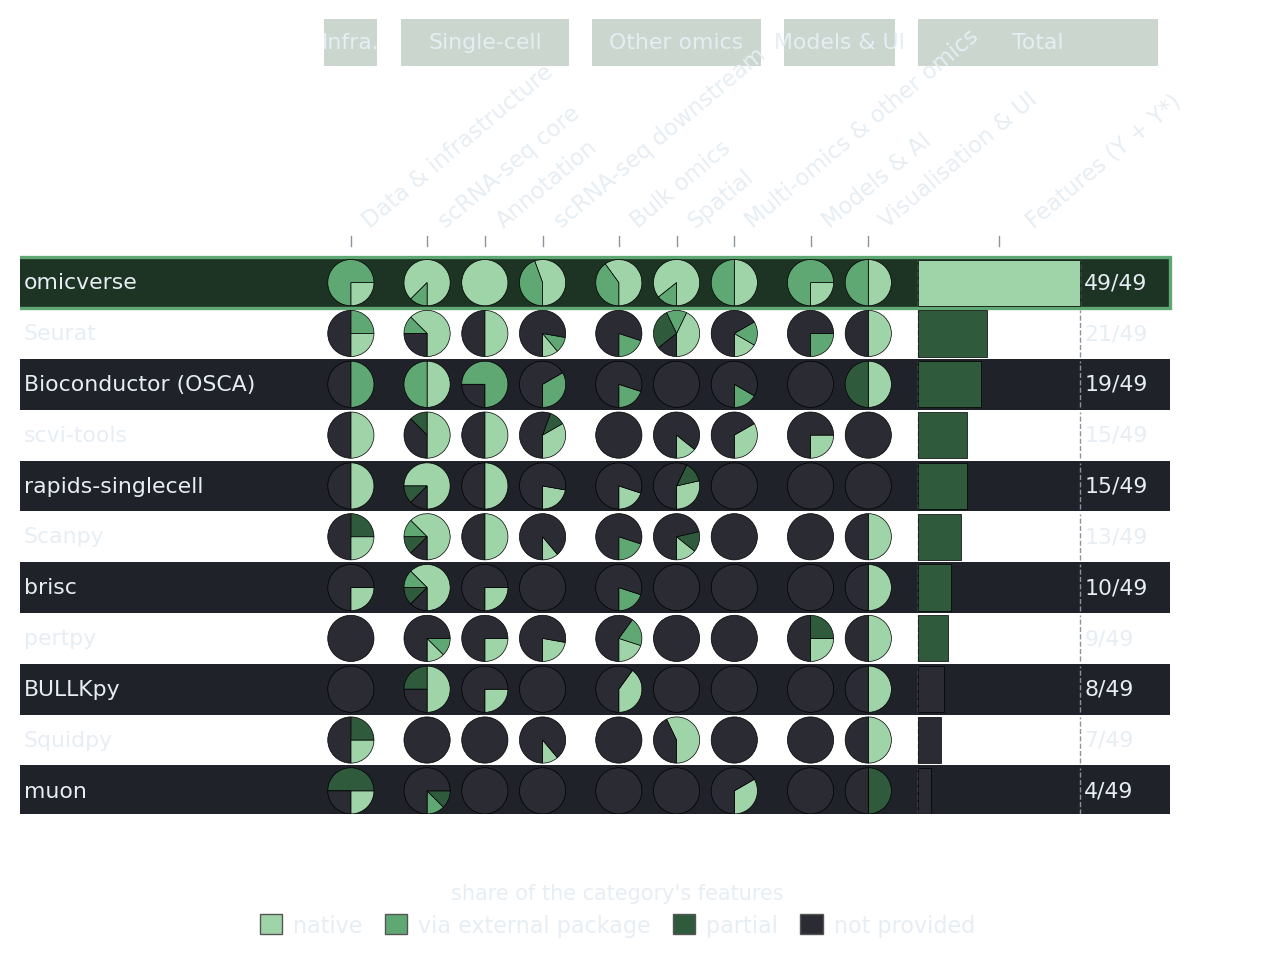
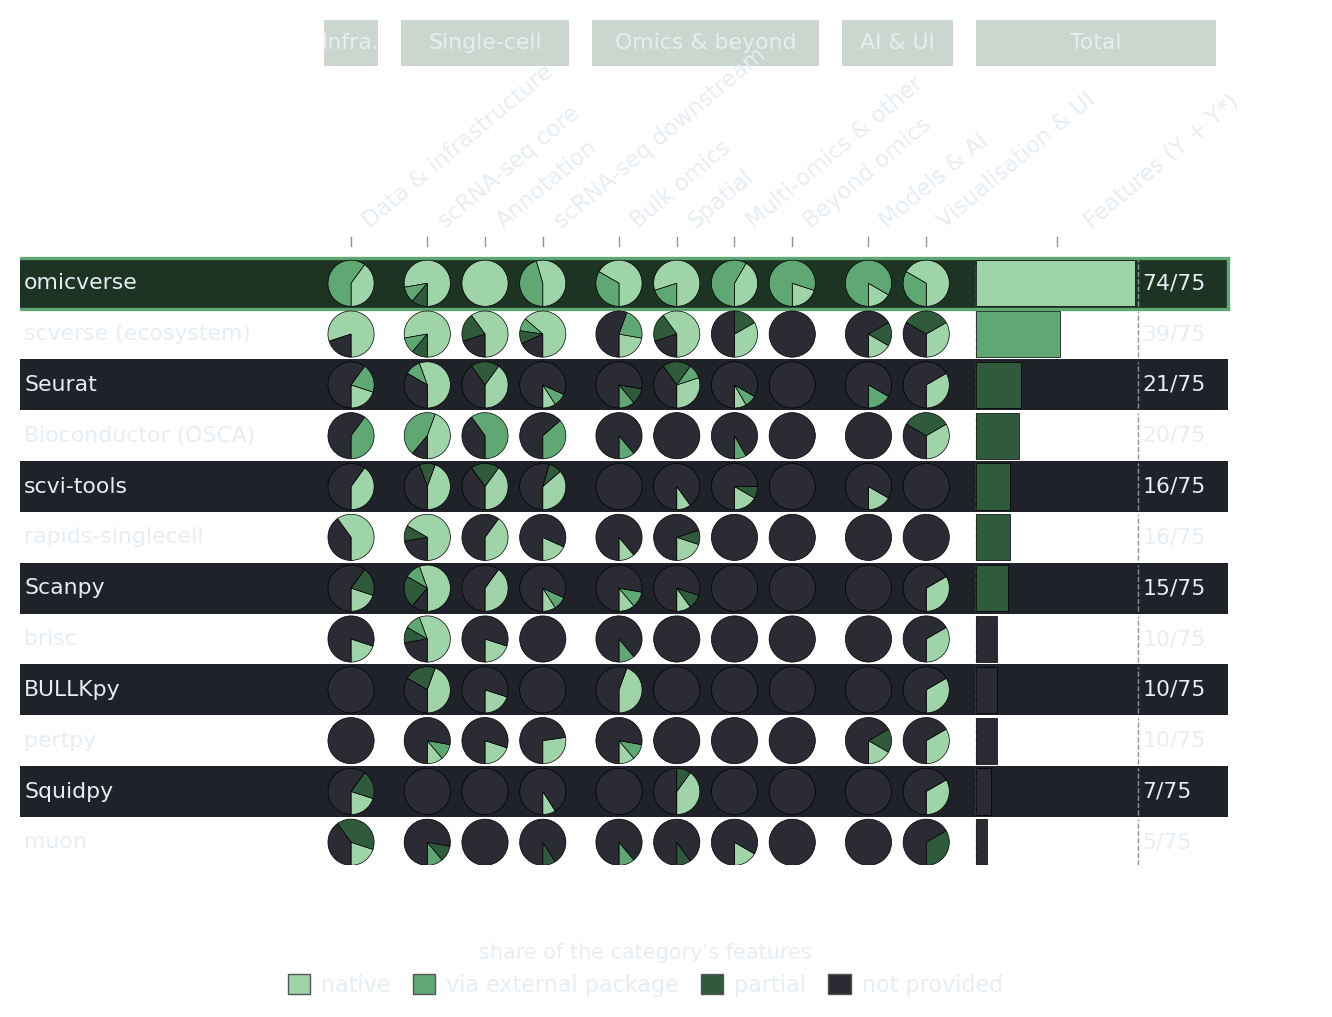
README + docs: feature coverage with 75 features and a scverse row (#1063)

diff --git a/READMEM/README_JP.md b/READMEM/README_JP.md
@@ -77,10 +77,10 @@ OmicVerseはcondaまたはpypiを通じてインストールでき、最初に`p
 
 <picture>
   <source media="(prefers-color-scheme: dark)" srcset="../README.assets/feature_coverage_dark.png">
-  <img src="../README.assets/feature_coverage_light.png" width="90%" alt="Feature coverage of omicverse and ten other frameworks">
+  <img src="../README.assets/feature_coverage_light.png" width="90%" alt="Feature coverage of omicverse, the scverse ecosystem and ten other frameworks">
 </picture>
 
-49 項目の分析機能（逐一検証済み）における omicverse と他の 10 フレームワークの機能カバレッジ比較です。セルごとの根拠を含む完全な表、データフレームワーク、OmicVerse に含まれる公開ツールの一覧は[ドキュメント](https://omicverse.readthedocs.io/en/latest/Feature_coverage/)を参照してください。
+75 項目の分析機能（逐一検証済み）における omicverse、scverse エコシステムと他の 10 フレームワークの機能カバレッジ比較です。セルごとの根拠を含む完全な表、データフレームワーク、OmicVerse に含まれる公開ツールの一覧は[ドキュメント](https://omicverse.readthedocs.io/en/latest/Feature_coverage/)を参照してください。
 
 ## `4` [お問い合わせ](#)
 

diff --git a/READMEM/README_FR.md b/READMEM/README_FR.md
@@ -77,10 +77,10 @@ Les workflows d’agents — OpenClaw, le serveur MCP et les bots de messagerie 
 
 <picture>
   <source media="(prefers-color-scheme: dark)" srcset="../README.assets/feature_coverage_dark.png">
-  <img src="../README.assets/feature_coverage_light.png" width="90%" alt="Feature coverage of omicverse and ten other frameworks">
+  <img src="../README.assets/feature_coverage_light.png" width="90%" alt="Feature coverage of omicverse, the scverse ecosystem and ten other frameworks">
 </picture>
 
-Couverture fonctionnelle d’omicverse comparée à dix autres frameworks sur 49 fonctions d’analyse vérifiées. Le tableau complet avec les preuves par cellule, le cadre de données et la liste des outils publiés intégrés à OmicVerse sont dans la [documentation](https://omicverse.readthedocs.io/en/latest/Feature_coverage/).
+Couverture fonctionnelle d’omicverse comparée à l’écosystème scverse et à dix autres frameworks sur 75 fonctions d’analyse vérifiées. Le tableau complet avec les preuves par cellule, le cadre de données et la liste des outils publiés intégrés à OmicVerse sont dans la [documentation](https://omicverse.readthedocs.io/en/latest/Feature_coverage/).
 
 ## `4` [Contact](#)
 

diff --git a/READMEM/README_DE.md b/READMEM/README_DE.md
@@ -75,10 +75,10 @@ Agenten-Workflows – OpenClaw, der MCP-Server und die J.A.R.V.I.S.-Nachrichtenb
 
 <picture>
   <source media="(prefers-color-scheme: dark)" srcset="../README.assets/feature_coverage_dark.png">
-  <img src="../README.assets/feature_coverage_light.png" width="90%" alt="Feature coverage of omicverse and ten other frameworks">
+  <img src="../README.assets/feature_coverage_light.png" width="90%" alt="Feature coverage of omicverse, the scverse ecosystem and ten other frameworks">
 </picture>
 
-Funktionsumfang von omicverse im Vergleich zu zehn weiteren Frameworks über 49 geprüfte Analysefunktionen. Die vollständige Tabelle mit Belegen je Zelle, das Daten-Framework und die Liste der in OmicVerse enthaltenen publizierten Tools finden sich in der [Dokumentation](https://omicverse.readthedocs.io/en/latest/Feature_coverage/).
+Funktionsumfang von omicverse im Vergleich zum scverse-Ökosystem und zehn weiteren Frameworks über 75 geprüfte Analysefunktionen. Die vollständige Tabelle mit Belegen je Zelle, das Daten-Framework und die Liste der in OmicVerse enthaltenen publizierten Tools finden sich in der [Dokumentation](https://omicverse.readthedocs.io/en/latest/Feature_coverage/).
 
 ## `4` [Kontakt](#)
 

diff --git a/READMEM/README_KR.md b/READMEM/README_KR.md
@@ -77,10 +77,10 @@ OmicVerse는 conda 또는 pypi를 통해 설치할 수 있으며 먼저 `pytorch
 
 <picture>
   <source media="(prefers-color-scheme: dark)" srcset="../README.assets/feature_coverage_dark.png">
-  <img src="../README.assets/feature_coverage_light.png" width="90%" alt="Feature coverage of omicverse and ten other frameworks">
+  <img src="../README.assets/feature_coverage_light.png" width="90%" alt="Feature coverage of omicverse, the scverse ecosystem and ten other frameworks">
 </picture>
 
-검증된 49개 분석 기능에서 omicverse와 다른 10개 프레임워크의 기능 범위 비교입니다. 셀별 근거가 포함된 전체 표, 데이터 프레임워크, OmicVerse에 포함된 공개 도구 목록은 [문서](https://omicverse.readthedocs.io/en/latest/Feature_coverage/)에서 확인할 수 있습니다.
+검증된 75개 분석 기능에서 omicverse, scverse 생태계와 다른 10개 프레임워크의 기능 범위 비교입니다. 셀별 근거가 포함된 전체 표, 데이터 프레임워크, OmicVerse에 포함된 공개 도구 목록은 [문서](https://omicverse.readthedocs.io/en/latest/Feature_coverage/)에서 확인할 수 있습니다.
 
 ## `4` [연락처](#)
 

diff --git a/READMEM/README_ES.md b/READMEM/README_ES.md
@@ -77,10 +77,10 @@ Los flujos de trabajo con agentes —OpenClaw, el servidor MCP y los bots de men
 
 <picture>
   <source media="(prefers-color-scheme: dark)" srcset="../README.assets/feature_coverage_dark.png">
-  <img src="../README.assets/feature_coverage_light.png" width="90%" alt="Feature coverage of omicverse and ten other frameworks">
+  <img src="../README.assets/feature_coverage_light.png" width="90%" alt="Feature coverage of omicverse, the scverse ecosystem and ten other frameworks">
 </picture>
 
-Cobertura de funciones de omicverse frente a otros diez frameworks en 49 funciones de análisis verificadas. La tabla completa con evidencia por celda, el marco de datos y la lista de herramientas publicadas incluidas en OmicVerse están en la [documentación](https://omicverse.readthedocs.io/en/latest/Feature_coverage/).
+Cobertura de funciones de omicverse frente al ecosistema scverse y otros diez frameworks en 75 funciones de análisis verificadas. La tabla completa con evidencia por celda, el marco de datos y la lista de herramientas publicadas incluidas en OmicVerse están en la [documentación](https://omicverse.readthedocs.io/en/latest/Feature_coverage/).
 
 ## `4` [Contacto](#)
 
